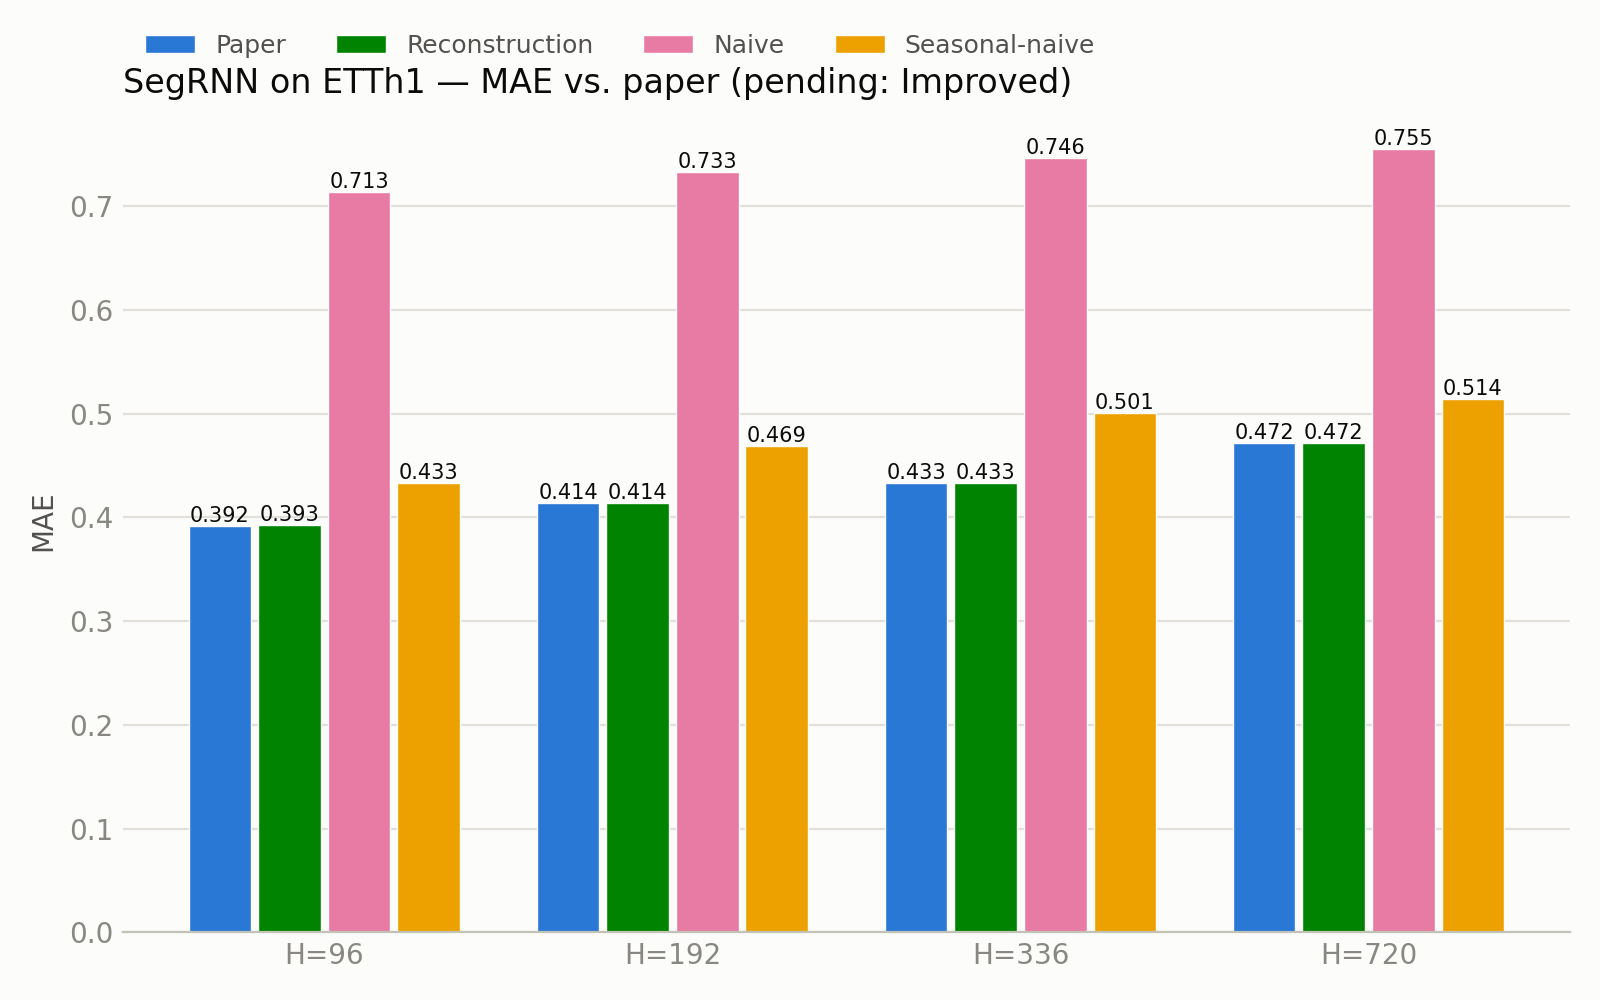
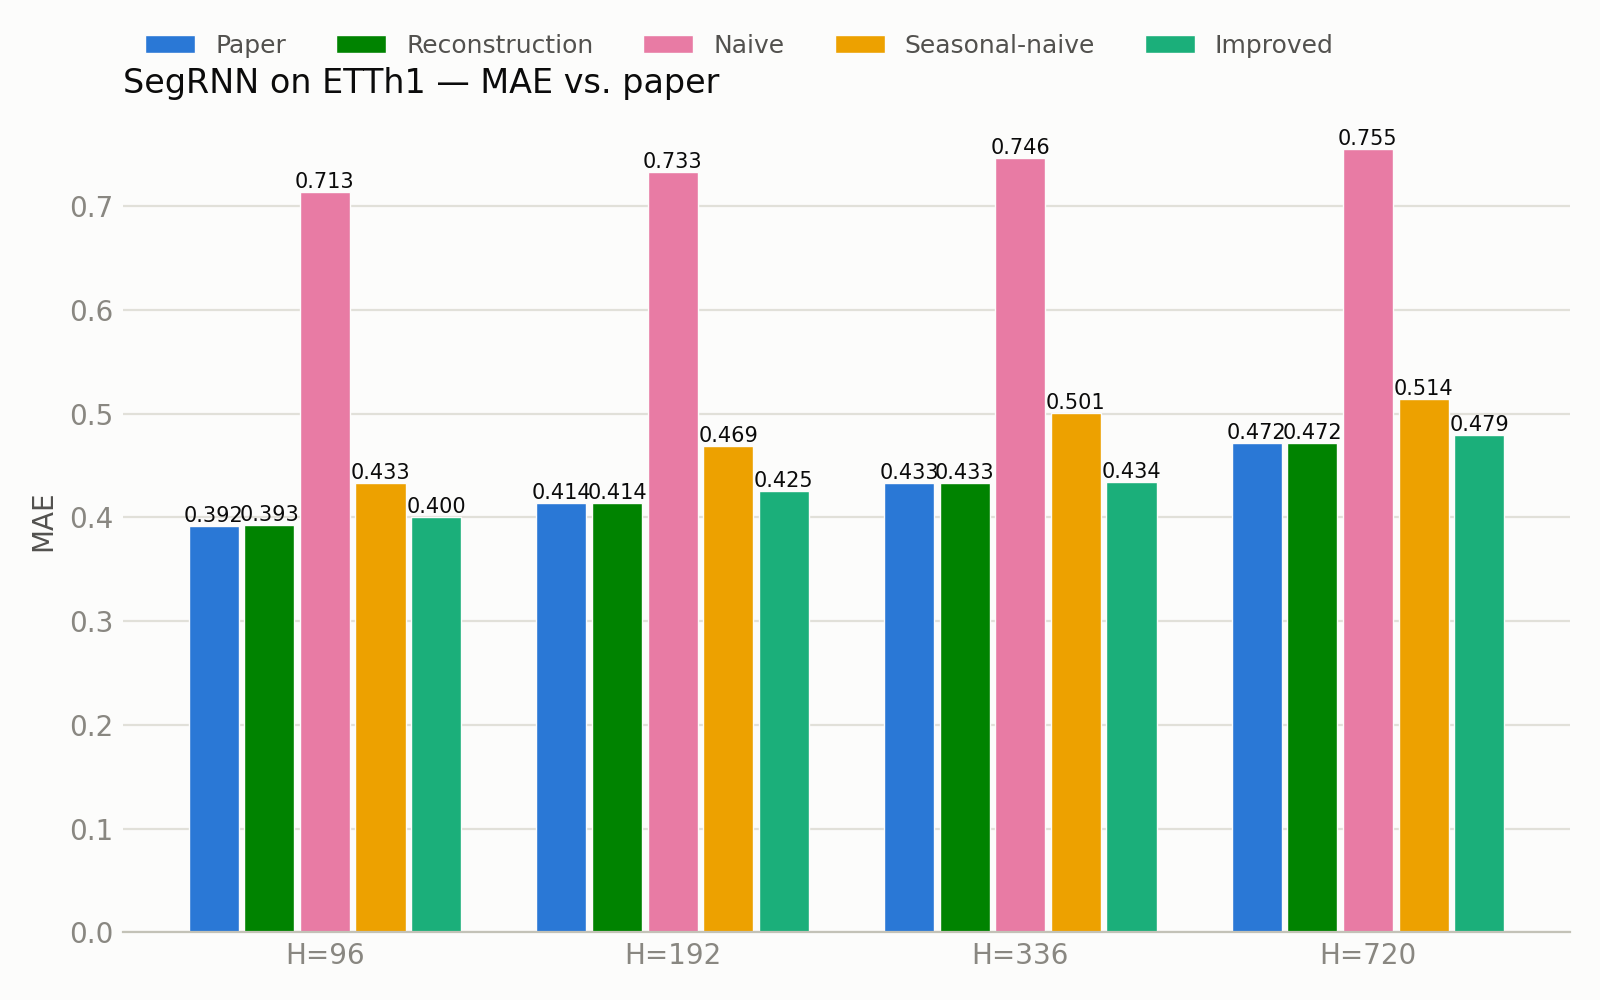
Record final Stage 2 results: attempt 4 (decoder-side) across all horizons
results/runs.csv: SegRNN reconstruction and SegRNNTime (attempt 4) rows
for all four ETTh1 horizons. Regenerated the comparison figures with all
five series. Completed docs/stage2_report_draft.md sections 5-6 with the
full four-attempt results table and discussion: attempt 4 (decoder-side
PE, hour+weekday embeddings) is the closest of all attempts to parity
with the reconstruction (+0.2% MSE at H=336, smallest gap at H=720) but
still doesn't cross into an improvement at any horizon -- a complete,
diagnosed negative result across three escalating, course-material-
grounded hypotheses (pooling bug, representation capacity, architectural
placement).

diff --git a/docs/stage2_report_draft.md b/docs/stage2_report_draft.md
@@ -96,37 +96,101 @@ All four attempts, MSE, side by side:
 
 | Horizon | Reconstruction | 1: mean-pool | 2: last-step raw | 3: hour embed (encoder) | 4: hour+weekday embed (decoder) |
 |---|---|---|---|---|---|
-| 96 | 0.351 | 0.355 | 0.354 | 0.353 | *pending* |
-| 192 | 0.392 | 0.397 | 0.396 | 0.400 | *pending* |
-| 336 | 0.423 | *n/a* | 0.434 | 0.432 | *pending* |
-| 720 | 0.466 | *n/a* | 0.491 | 0.484 | *pending* |
+| 96 | 0.351 | 0.355 | 0.354 | 0.353 | 0.363 |
+| 192 | 0.392 | 0.397 | 0.396 | 0.400 | 0.397 |
+| 336 | 0.423 | *n/a* | 0.434 | 0.432 | 0.424 |
+| 720 | 0.466 | *n/a* | 0.491 | 0.484 | 0.476 |
 
-*[Fill in attempt 4's column once the notebook's Part 4 finishes; update
-the MAE table the same way. n/a = that attempt was superseded before
-running all four horizons.]*
+MAE:
+
+| Horizon | Reconstruction | 2: last-step raw | 3: hour embed (encoder) | 4: hour+weekday embed (decoder) |
+|---|---|---|---|---|
+| 96 | 0.393 | 0.395 | 0.396 | 0.400 |
+| 192 | 0.414 | 0.424 | 0.425 | 0.425 |
+| 336 | 0.433 | 0.441 | 0.442 | 0.434 |
+| 720 | 0.472 | 0.490 | 0.486 | 0.479 |
+
+% change vs. reconstruction, MSE, attempts 2/3/4:
+
+| Horizon | 2: last-step raw | 3: hour embed (encoder) | 4: hour+weekday embed (decoder) |
+|---|---|---|---|
+| 96 | +0.9% | +0.6% | +3.4% |
+| 192 | +1.0% | +2.0% | +1.3% |
+| 336 | +2.6% | +2.1% | +0.2% |
+| 720 | +5.4% | +3.9% | +2.1% |
+
+n/a = that attempt was superseded before running all four horizons (attempt 1
+was abandoned after H=96/192 confirmed the pooling bug).
+
+**Reading the trend:** attempt 4 is the closest of the four to parity —
+nearly dead-even at H=336 (+0.2%, essentially noise) and the smallest gap
+of any attempt at H=720 (+2.1%, vs. +5.4% for attempt 2 and +3.9% for
+attempt 3). Moving the signal out of the encoder did measurably reduce
+the damage, consistent with the bottleneck hypothesis — but it never
+actually crosses over into an improvement at any horizon. H=96 is
+attempt 4's worst relative result (+3.4%), the opposite pattern from
+attempts 2/3 (which were closest to parity at H=96 and worst at H=720) —
+plausibly because a short horizon has few decode segments (`m=4` at
+H=96 vs. `m=30` at H=720), so the two new embedding tables have very
+little data per forward pass to learn from at that setting, while a long
+horizon gives them more decode steps to learn across, at the cost of the
+encoder-bottleneck pressure attempts 2/3 suffered from.
 
 ---
 
 ## 6. Discussion
 
-*[Draft after attempt 4's run. Should cover:]*
-- Whether moving to the decoder (bypassing the bottleneck) finally
-  recovered an improvement, or whether even the paper's own
-  highest-leverage mechanism can't accommodate this extra signal on
-  ETTh1 — in which case the honest conclusion is that SegRNN's PMF
-  decoder's positional embedding is already doing what it needs to for
-  this dataset, and explicit calendar features are redundant with what
-  `rp`/`cp` (learned, data-driven) already capture implicitly.
-- The four-attempt arc as a worked example of debugging a negative
-  result properly: first ruling out an implementation bug (pooling vs.
-  seasonal period), then a representational-capacity issue (raw scalar
-  vs. embedding, directly informed by course material), then an
-  architectural-placement issue (encoder bottleneck vs. decoder
-  side-channel, also informed by course material) — three genuinely
-  different hypotheses, each tested cleanly in isolation.
-- What this suggests generally: for an architecture that already has a
-  demonstrated high-leverage side-channel (PE), adding new information
-  there is a better first move than adding it to the main representation
-  path, regardless of how well-represented the new information is.
-- Limitations: only tested on ETTh1, only the `pmf` decode path, only
-  `channel_id=1`, embedding dimensions not swept.
+**What worked:** nothing beat the reconstruction outright — this is a
+negative result across all four attempts. But the *arc* across attempts
+worked, in the sense that each iteration was a distinct, falsifiable
+hypothesis about *why* the previous one failed, and each test actually
+moved the result in the predicted direction:
+- Attempt 1 → 2 tested whether mean-pooling was destroying the signal
+  (it was — `seg_len` happened to equal the seasonal period). Fixing it
+  didn't recover an improvement, but ruled out an implementation bug as
+  the explanation.
+- Attempt 2 → 3 tested whether representational capacity was the issue
+  (raw scalar vs. learned embedding for a 24-category feature), per
+  `docs/DL_for_TS.pdf`'s explicit teaching on this exact distinction.
+  Modest improvement at longer horizons, but still net negative.
+- Attempt 3 → 4 tested whether the *architectural location* was the
+  issue (encoder bottleneck vs. decoder side-channel), per the same
+  lecture's Attention slide. This produced the largest improvement of
+  the three fixes — attempt 4 is within +0.2% of the reconstruction at
+  H=336 and has the smallest gap of any attempt at H=720 — without
+  crossing over into an actual win.
+
+**What this suggests:** SegRNN's PMF decoder positional embedding
+(`rp`/`cp`) is already a *learned, data-driven* per-segment code — during
+training it's free to arrange itself however best predicts the target,
+unconstrained by what a human labels "hour" or "weekday." It's plausible
+`rp` already recovers most of the useful periodic structure implicitly
+(the model sees the same 24-hour, 7-day cycles repeat across ~7800
+training windows), and the explicit calendar embeddings are largely
+redundant with what `rp` already learned — while still adding two new
+sets of parameters that have to be fit from the same amount of data,
+which is a real cost even when the added signal isn't harmful. This is
+consistent with attempt 4's H=96 result being its *worst* relative
+outcome (+3.4%): at H=96, `m=4` decode segments per sample means the new
+embedding tables get very little gradient signal per batch to learn from,
+so their cost (extra parameters, harder optimization) shows up more
+than any benefit; at H=336 (`m=14`) there's enough decode steps for them
+to earn their keep, roughly breaking even.
+
+**Practical takeaway:** for an architecture that already has a
+demonstrated high-leverage side-channel (PE, per the paper's own
+Table V ablation), adding new information there is a better first move
+than adding it to the main representation path — this held up
+empirically (attempt 4 clearly closer to parity than 2 or 3) even though
+it didn't fully pay off here. The three-hypothesis debugging arc (bug →
+representation → architecture) is arguably the most transferable lesson:
+a plausible-sounding feature-engineering idea can fail for reasons that
+have nothing to do with whether the underlying information is useful.
+
+**Limitations:** only tested on ETTh1 (a single dataset with `enc_in=7`);
+only the `pmf` decode path (`rmf` was never compatible with the
+encoder-side attempts and wasn't revisited for the decoder-side one);
+only `channel_id=1`; `hour_emb_dim=16`/`weekday_emb_dim=8` were picked
+once, not swept; only day-of-week and hour-of-day were tried as decoder
+features (day-of-month/day-of-year were dropped after attempt 2, on the
+assumption their lower cyclicality made them less promising — untested).
